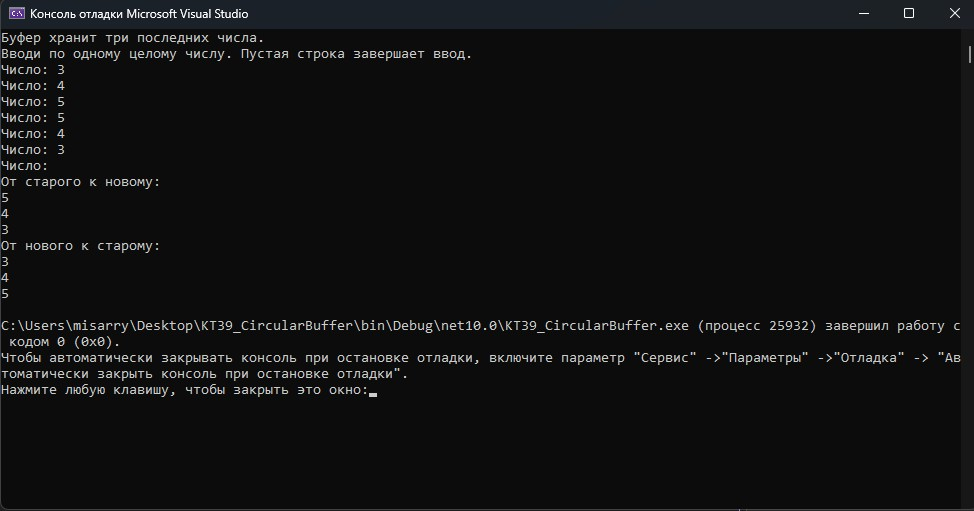
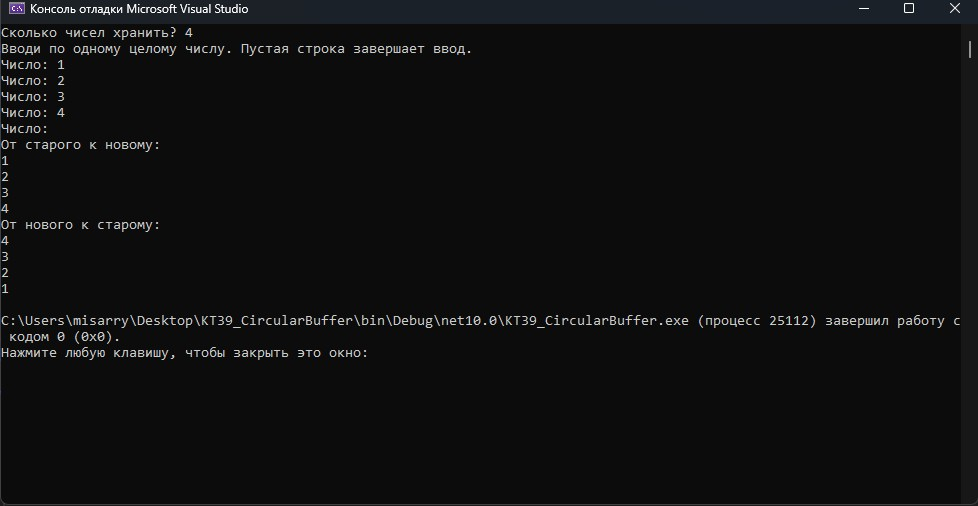
retake

diff --git a/Program.cs b/Program.cs
@@ -4,8 +4,25 @@ namespace ConsoleApp1
     {
         static void Main(string[] args)
         {
-            var buffer = new CircularBuffer<int>(3);
-            Console.WriteLine("Буфер хранит три последних числа.");
+            int capacity;
+            while (true)
+            {
+                Console.Write("Сколько чисел хранить? ");
+                string? capacityInput = Console.ReadLine();
+                if (capacityInput == null)
+                {
+                    return;
+                }
+
+                if (int.TryParse(capacityInput, out capacity) && capacity > 0)
+                {
+                    break;
+                }
+
+                Console.WriteLine("Введи целое число больше нуля.");
+            }
+
+            var buffer = new CircularBuffer<int>(capacity);
             Console.WriteLine("Вводи по одному целому числу. Пустая строка завершает ввод.");
 
             while (true)
